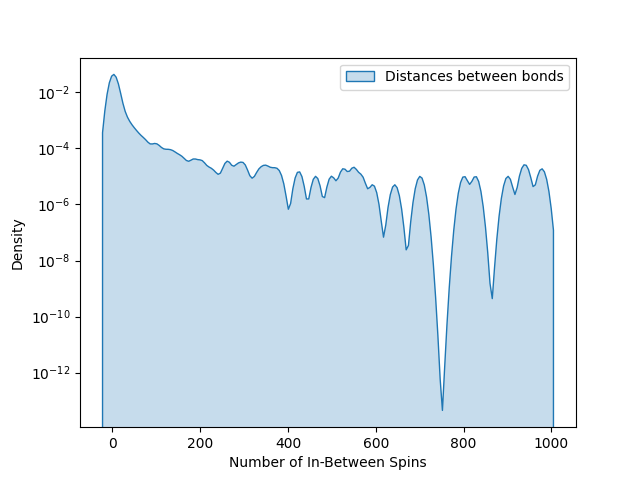
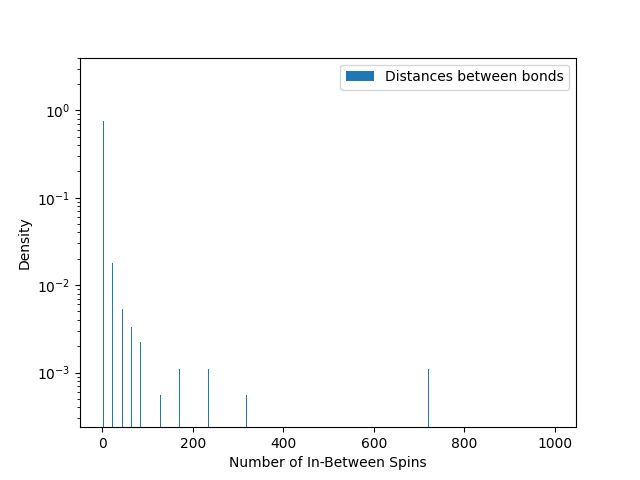
Added multi-processing and updated graphics

diff --git a/bond_distribution.py b/bond_distribution.py
@@ -4,50 +4,48 @@ from random_chain import Random_chain
 from scipy.stats import expon
 from tqdm import tqdm
 import seaborn as sns
+import multiprocessing as mp
 
-num_simulations = 20
+num_simulations = 100
+num_cores = mp.cpu_count() // 2  # Use half of the available cores
 
-bond_distributions = []
-
-length = 1000
-n_steps = int(length / 2)
-
-for sim in tqdm(range(num_simulations)):
+def run_simulation(sim):
+    length = 1000
+    n_steps = int(length / 2)
     chain = Random_chain(length, resc = False)
 
-    for _ in range(n_steps):
+    for _ in tqdm(range(n_steps)):
         chain.renormalization()
 
-    # Calculate the final bond distribution
     final_bond_distribution = np.extract(chain.bond_matrix != 0, chain.bond_matrix)
-
-    # Separate positive and negative bonds
     negative_bonds = [x for x in final_bond_distribution if x < 0]
+    abs_negative_bonds = negative_bonds- min(negative_bonds)
 
-    # Get the absolute values of the negative bonds
-    abs_negative_bonds = negative_bonds - min(negative_bonds)
+    return abs_negative_bonds
 
-    # Calculate the scale parameter for the exponential distribution
-    bond_distributions.append(abs_negative_bonds)
+if __name__ == '__main__':
+    with mp.Pool(num_cores) as pool:
+        bond_distributions = list(tqdm(pool.imap(run_simulation, range(num_simulations)), total=num_simulations))
 
-# Combine the bond distributions from each run and calculate the average distribution
-average_distribution = np.concatenate(bond_distributions)
+    average_distribution = np.concatenate(bond_distributions)
+    scale = np.mean(average_distribution)
+    x = np.linspace(0, max(average_distribution), num=200)
 
-# Calculate the scale parameter for the exponential distribution
-scale = np.mean(average_distribution)
+    plt.figure(1)
+    plt.hist(average_distribution, label="Average absolute values of negative bonds", density = True, bins = 'auto')
+    plt.plot(x, expon.pdf(x, scale=scale), label="Exponential distribution", linestyle="--")
+    plt.xlabel("Bond strength")
+    plt.ylabel("Density")
+    plt.legend()
+    plt.title("Average bond distribution")
+    plt.savefig("Figures/average_bond_distribution_histogram.png")
 
-# Generate x values for the exponential distribution
-x = np.linspace(0, max(average_distribution), num=200)
-
-# Plot the histogram for the average distribution
-plt.hist(average_distribution, bins='auto', density=True, alpha=0.7, label="Average absolute values of negative bonds")
-
-# Plot the exponential distribution
-plt.plot(x, expon.pdf(x, scale=scale), label="Exponential distribution", linestyle="--")
-plt.xlabel("Bond strength")
-plt.ylabel("Density")
-plt.legend()
-plt.title("Average bond distribution")
-plt.savefig("Figures/average_bond_distribution_histogram.png")
-plt.show()
-
+    plt.figure(2)
+    sns.kdeplot(average_distribution, label="Average absolute values of negative bonds", fill = True)
+    plt.plot(x, expon.pdf(x, scale=scale), label="Exponential distribution", linestyle="--")
+    plt.xlabel("Bond strength")
+    plt.ylabel("Density")
+    plt.legend()
+    plt.title("Average bond distribution")
+    plt.savefig("Figures/average_bond_distribution_kdeplot.png")
+    plt.show()

diff --git a/bond_distance.py b/bond_distance.py
@@ -3,34 +3,41 @@ import matplotlib.pyplot as plt
 from random_chain import Random_chain
 from tqdm import tqdm
 import seaborn as sns
+import multiprocessing as mp
 
 length = 1000
-num_simulations = 20
+num_simulations = 100
+num_cores = mp.cpu_count() // 2  # Use half of the available cores
 
 # Initialize an empty list to store the bond distances from each simulation
 all_distances = []
 
-for sim in tqdm(range(num_simulations)):
+def run_simulation(sim):
     matrix = Random_chain(length)
     distances = []
 
-    for _ in range(int(length / 2)):
+    for _ in tqdm(range(int(length / 2))):
         matrix.renormalization()
 
         # Calculate the distance between the two spins
         distance = matrix.right_index[1] - matrix.left_index[1] - 1
         distances.append(distance)
 
-    # Combine the distances from all simulations
-    all_distances.extend(distances)
+    return distances
 
-# Plot the kdeplot for the bond distances
-sns.kdeplot(all_distances, label="Distances between bonds", fill=True)
-plt.yscale('log')
-plt.ylabel('Density')
-plt.xlabel('Number of In-Between Spins')
-plt.legend()
-plt.savefig('Figures/distance.png')
+if __name__ == '__main__':
+    with mp.Pool(num_cores) as pool:
+        distance_lists = list(tqdm(pool.imap(run_simulation, range(num_simulations)), total=num_simulations))
 
-plt.show()
+    # Flatten the list of lists into a single list
+    all_distances = [item for sublist in distance_lists for item in sublist]
 
+    # Plot the kdeplot for the bond distances
+    plt.hist(all_distances, label="Distances between bonds", density = True, bins = 'auto')
+    plt.yscale('log')
+    plt.ylabel('Density')
+    plt.xlabel('Number of In-Between Spins')
+    plt.legend()
+    plt.savefig('Figures/distance.png')
+
+    plt.show()

diff --git a/random_chain.py b/random_chain.py
@@ -1,6 +1,6 @@
 import numpy as np
 
-np.random.seed(20) # Comment if you want randomised results, it was used to get the graphs for the thesis text.
+# np.random.seed(20) # Comment if you want randomised results, it was used to get the graphs for the thesis text.
 
 
 class Random_chain:
@@ -44,13 +44,6 @@ class Random_chain:
             self.right_bond = self.bond_matrix[tuple(self.right_index)]
 
             self.eff_bond = self.right_bond * self.left_bond / self.max_bond
-
-            if self.eff_bond == 0:
-                self.zeta = 0
-            else:
-                self.zeta = np.log(self.max_bond / self.eff_bond)
-            self.gamma = -np.log(self.max_bond)
-            self.eta = self.zeta / self.gamma
         return self
 
 
